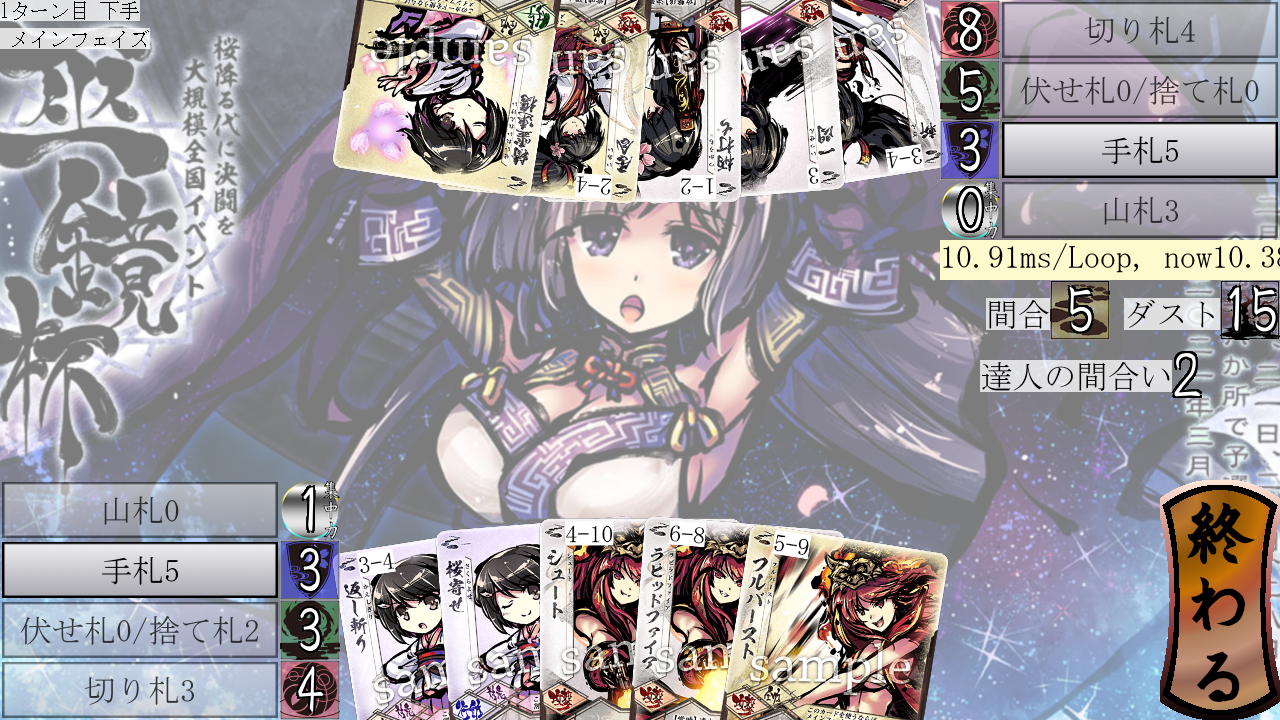
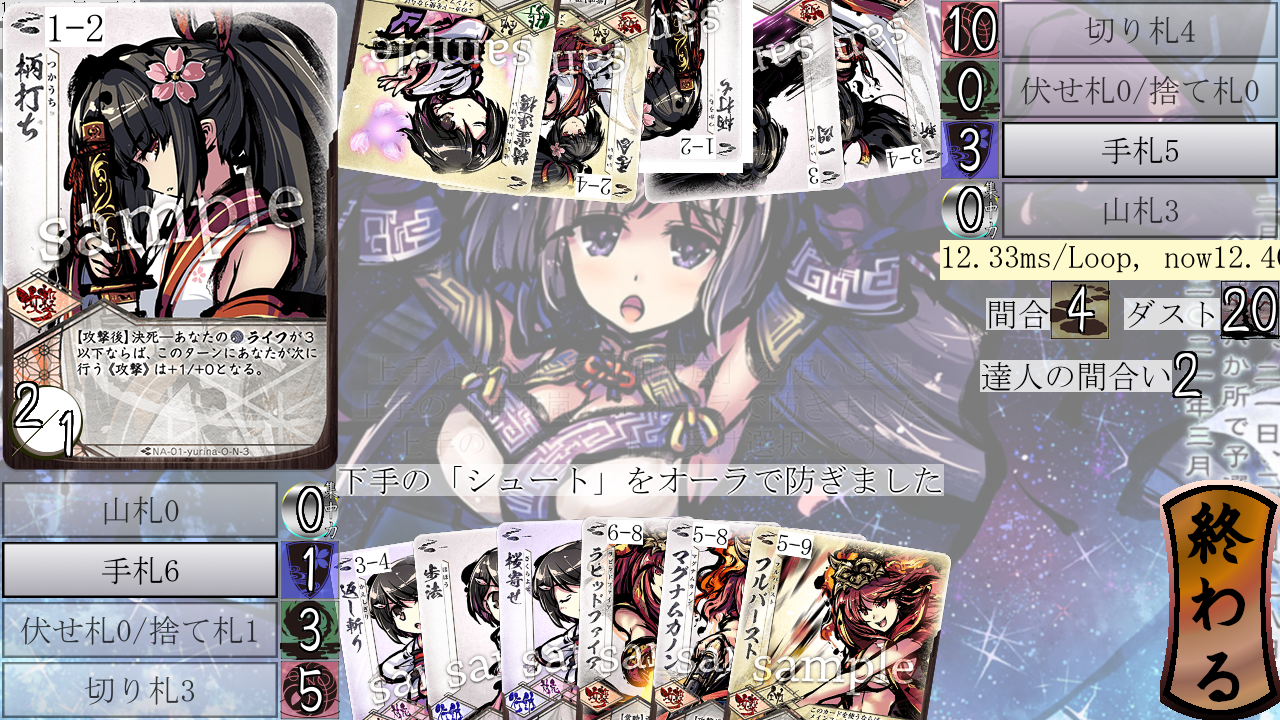
J655:フルバーストの数値の大きさをDamageと共有

diff --git a/mod/card/damage.py b/mod/card/damage.py
@@ -3,16 +3,13 @@ from pygame.surface import Surface
 from pygame.math import Vector2
 from typing import Any
 
-from mod.const import draw_aiharasuu, POP_OK, DMG_DEFAULT
+from mod.const import draw_aiharasuu, POP_OK, DMG_DEFAULT, FONT_SIZE_DAMAGE
 from mod.delivery import Delivery
 from mod.card.card import Card, auto_di
 from mod.moderator import moderator
 from mod.card.damage_layer import damage_layer
 
 class Damage(Card):
-    _SCALE_SIZE = 180
-
-#                 20                  40                  60                 79
     def __init__(self, img: Surface, name: str, dmg: int, from_code: int,
     to_code: int, attr: int=DMG_DEFAULT) -> None:
         super().__init__(img, name, auto_di)
@@ -21,8 +18,9 @@ class Damage(Card):
         self.from_code = from_code
         self.to_code = to_code
         self.attr = attr
-        draw_aiharasuu(surface=self.img, dest=Vector2(340, 475)/2 - Vector2(self._SCALE_SIZE, self._SCALE_SIZE)/2,
-                       num=dmg, size=self._SCALE_SIZE)
+        draw_aiharasuu(surface=self.img, dest=Vector2(340, 475)/2-Vector2(
+            FONT_SIZE_DAMAGE, FONT_SIZE_DAMAGE)/2, num=dmg,
+            size=FONT_SIZE_DAMAGE)
 
     def kaiketu(self, delivery: Delivery, hoyuusya: int, huda: Any | None = None, code: int = POP_OK) -> None:
         moderator.append(damage_layer(card=self, delivery=delivery, hoyuusya=hoyuusya, code=code))

diff --git a/mod/ol/play_kougeki/uke_cards.py b/mod/ol/play_kougeki/uke_cards.py
@@ -3,7 +3,7 @@ from pygame import Surface, SRCALPHA, Vector2
 
 from mod.const import IMG_AURA_DAMAGE, IMG_LIFE_DAMAGE, IMG_BURST_DAMAGE,\
     UC_AURA, UC_DUST, UC_LIFE, UC_FLAIR, opponent, POP_OPEN, POP_ACT1,\
-    POP_ACT2, draw_aiharasuu, FONT_SIZE_AIHARASUU, CT_KOUDOU
+    POP_ACT2, draw_aiharasuu, FONT_SIZE_DAMAGE, CT_KOUDOU, enforce
 from mod.classes import Card, Delivery, moderator
 from mod.card.card import auto_di
 from mod.card.damage import Damage
@@ -34,8 +34,12 @@ def uke_cards(card: Card, delivery: Delivery, hoyuusya: int) -> list[Card]:
 
 def _img_burst(ad: int | None, ld: int | None) -> Surface:
     img = IMG_BURST_DAMAGE.copy()
-    draw_aiharasuu(surface=img, dest=Vector2(90, 150), num=ad, size=FONT_SIZE_AIHARASUU)
-    draw_aiharasuu(surface=img, dest=Vector2(190, 250), num=ld, size=FONT_SIZE_AIHARASUU)
+    draw_aiharasuu(surface=img, dest=Vector2(340, 475)/2-Vector2(
+        FONT_SIZE_DAMAGE, FONT_SIZE_DAMAGE)/2-(100, 100), num=enforce(ad, int),
+        size=FONT_SIZE_DAMAGE)
+    draw_aiharasuu(surface=img, dest=Vector2(340, 475)/2-Vector2(
+        FONT_SIZE_DAMAGE, FONT_SIZE_DAMAGE)/2+(100, 100), num=enforce(ld, int),
+        size=FONT_SIZE_DAMAGE)
     return img
 
 def _burst_card(base_card: Card, ad: int | None, ld: int | None) -> Card:

diff --git a/mod/const.py b/mod/const.py
@@ -72,6 +72,7 @@ FONT_SIZE_OSAME_NUM = 120
 FONT_SIZE_TITLE = 48
 FONT_SIZE_MAAI = 40
 FONT_SIZE_TATUZIN = 32
+FONT_SIZE_DAMAGE = 180
 
 ACTION_CIRCLE_NEUTRAL = pygame.image.load("pictures/action_circle_neutral.png").convert_alpha()
 ACTION_CIRCLE_CARD = pygame.image.load("pictures/action_circle_card.png").convert_alpha()
